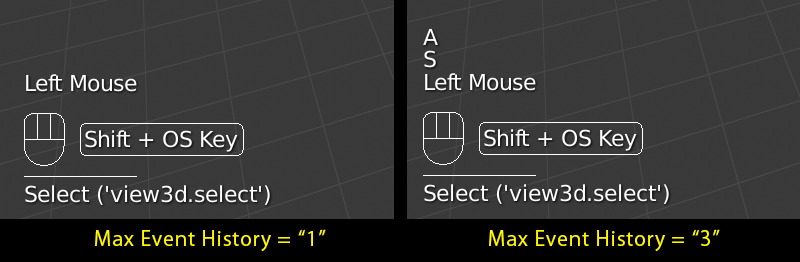
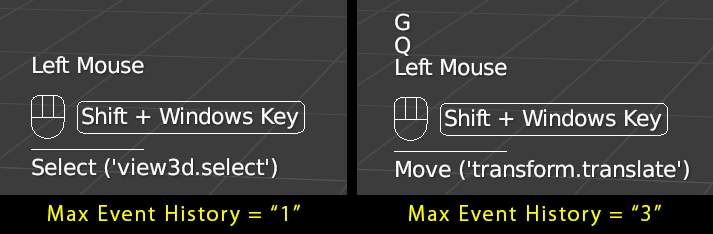
Update: Documents for v3.6

diff --git a/docs/tutorial.md b/docs/tutorial.md
@@ -38,15 +38,20 @@ You can also change shadow color.
 ### Backgroud
 
 If **Background** option is enabled, colored planes will be displayed behind texts and figures.  
-Two background options are available.  
-You can also change backgroud color.
+Background color is changeable.  
+**Background Mode** changes the display style for the background.
 
 |||
 |---|---|
 |**Text**|Display colored plane behind texts and figures.|
 |**Draw Area**|Display a color plane on the draw area rectangle.|
 
-![Option (Background)](images/tutorial/option_background.png)
+![Option (Background Mode)](images/tutorial/option_background_mode.png)
+
+The background will have rounded corners with **Corner Radius** value.  
+If this value is 0, the rounded corners are disabled.
+
+![Option (Corner Radius)](images/tutorial/option_background_corner_radius.png)
 
 
 ### Font Size
@@ -56,10 +61,24 @@ You can also change backgroud color.
 ![Option (Font Size)](images/tutorial/option_font_size.png)
 
 
+### Margin
+
+**Margin** option makes the spaces around the texts.  
+
+![Option (Margin)](images/tutorial/option_margin.png)
+
+
+### Line Thickness
+
+**Line Thickness** option specifies the thickness of lines.
+
+![Option (Line Thickness)](images/tutorial/option_line_thickness.png)
+
+
 ### Mouse Size
 
 **Mouse Size** option specifies the size of figure which displays hold mouse status.  
-This option is only availabe when **Mouse Events** option is **Hold Status** or **Event History + Hold Status** while **Show Mouse Events** is enabled.
+This option is only availabe when **Show Mouse Events** option's mode is **Hold Status** or **Event History + Hold Status**.
 
 ![Option (Mouse Size)](images/tutorial/option_mouse_size.png)
 
@@ -107,18 +126,17 @@ If you change **Max Event History** option to 1, show only last key event.
 ![Option (Max Event History)](images/tutorial/option_max_event_history.png)
 
 
-### Show Mouse Event
+### Repeat Count
 
-If **Show Mouse Event** option is enabled, events from mouse will be displayed.  
-You can also display mouse button hold status as figure.  
-See **Mouse Event** option if you want to change how to display the mouse status.
+Repeated key will be displayed as the single string. (eg: Tab x5)
 
-![Option (Mouse Event)](images/tutorial/option_mouse_event.png)
+![Option (Repeat Count)](images/tutorial/option_repeat_count.png)
 
 
-### Mouse Event
+### Show Mouse Events
 
-**Mouse Event** option specifies how to display the mouse status.
+If **Show Mouse Events** option is enabled, events from mouse will be displayed.  
+You can change the display mode from **Mode** option.  
 
 |||
 |---|---|
@@ -127,23 +145,22 @@ See **Mouse Event** option if you want to change how to display the mouse status
 |**Event History + Hold Status**|Both **Event History** and **Hold Status**.|
 
 
-### Show Last Operator
-
-If **Show Last Operator** option is enabled, the last executed operator will be displayed.  
-See **Last Operator** option if you want to change how to display the last operator.
-
-![Option (Last Operator)](images/tutorial/option_last_operator.png)
+![Option (Show Mouse Events)](images/tutorial/option_show_mouse_events.png)
 
 
-### Last Operator
+### Show Last Operators
 
-**Last Operator** option specifies how to display the last operator.
+If **Show Last Operators** option is enabled, the last executed operator will be displayed.  
+You can change the display mode from **Mode** option.  
 
 |||
 |---|---|
 |**Label**|Label (`bl_label`) of operator will be displayed.|
 |**ID Name**|ID Name (`bl_idname`) of operator will be displayed.|
 |**Label + ID Name**|Both **Label** and **ID Name**.|
+
+
+![Option (Show Last Operators)](images/tutorial/option_show_last_operators.png)
 
 
 ### Get Event Aggressively
@@ -161,21 +178,45 @@ In addition to the above options, some options are located on Preferences.
 You can update this add-on from Preferences.
 
 
-### Panel Location
+### Enable On Startup
 
-The location of the Panel can be changed.
+If this option is enabled, Screencast Keys will be enabled automatically when blender will startup up.
+
+
+### UI
+
+#### Sidebar
+
+If this option is enabled, the Screencast Key's menu will be added to the sidebar.
+The location of the Panel can be changed by using **Space** option and **Category** option.
 
 |||
 |---|---|
 |**Space**|Space which this panel is placed on.|
 |**Category**|The category name of this panel.|
 
+![Preferences (Sidebar)](images/tutorial/preferences_sidebar.png)
 
-### Debug Mode
 
-*NOTE: This option is for the development purpose. If this option is enabled, the performance issue may be raised.*
+#### Overlay
+
+If this option is enabled, the Screencast Key's menu will be added to the **Viewport Overlays**.
+
+![Preferences (Overlay)](images/tutorial/preferences_overlay.png)
+
+
+### Development
+
+*NOTE: These options are for the development purpose. If these options are enabled, the performance issue may be raised.*
+
+#### Output Debug Log
 
 Output logs for the analysis of bugs and so on.
+
+
+#### Display Draw Area
+
+Display 'Draw Area' where Screencast Keys UI will be rendered.
 
 
 ### Enable Display Event Text Aliases
@@ -183,7 +224,7 @@ Output logs for the analysis of bugs and so on.
 If this options is enabled, you can display own customized strings for events instead of default key name.  
 This can be useful when you want to display events from special input devices.
 
-![Preference (Text Aliases)](images/tutorial/preference_text_aliases.png)
+![Preference (Enable Display Event Text Aliases)](images/tutorial/preferences_enable_display_event_text_aliases.png)
 
 
 ## Shortcut Keys

diff --git a/docs/faq.md b/docs/faq.md
@@ -1,28 +1,39 @@
 # FAQ
 
+### Failed to install this add-on
 
-**Failed to get event while the modal operation is running. (e.g. G + X, S + Y, ...)**
+Try to restart Blender or reinstall this add-on.  
+Related error is reported in some issues ([Issue #61](https://github.com/nutti/Screencast-Keys/issues/61), [Issue #64](https://github.com/nutti/Screencast-Keys/issues/64), [Issues #65](https://github.com/nutti/Screencast-Keys/issues/65)).
 
-Try to enable the experimental option *Get Event Aggressively*.
+---
+
+### Failed to get event while the modal operation is running. (e.g. G + X, S + Y, ...)
+
+Try to enable the experimental option *Get Event Aggressively*.  
 This option enables you to get events even if the modal operation is running.
 
-This option hacks the internal structure of Blender, so it is now experimental option.
-If you want to use this add-on safely, you should not enable this option.
+This option hacks the internal structure of Blender, so it is now experimental option.  
+If you want to use this add-on safely, you should not enable this option.  
 But the bug reports are welcomed.
 
+---
 
-**Screencast Keys is disabled after opening a new .blend file or restarting Blender.**
+### Screencast Keys is disabled after opening a new .blend file or restarting Blender.
 
-Screencast Keys add-on uses the modal operator which continuously runs Blender's background.
-The modal operator will be cancelled when a new file is opened or Blender is restarted.
-For this reason, Screencast Keys will be disabled after opening a new .blend file or restarting Blender.
+Use Screencast Keys whose version is above 3.6.  
+This issue is solved by [**@CheeryLee**](https://github.com/CheeryLee)'s [Pull Request #62](https://github.com/nutti/Screencast-Keys/pull/62) and his patch is available since v3.6.
 
-Instead, Screencast Keys provides the shortcut key *Shift + Alt + C* to enable Screencast Keys add-on easily.
-See also [Tutorial](tutorial.md#shortcut-keys).
+---
 
+### Auto saving feature is disabled when Screencast Keys add-on is enabled.
 
-**Auto saving feature is disabled when Screencast Keys add-on is enabled.**
-
-Screencast Keys add-on uses the modal operator which continuously runs Blender's background.
-If the modal operator is running, Blender will disable the auto saving feature.
+Screencast Keys add-on uses the modal operator which continuously runs Blender's background.  
+If the modal operator is running, Blender will disable the auto saving feature.  
 For this reason, the auto saving feature is disabled when Screencast Keys add-on is enabled.
+
+---
+
+### ERROR: `TypeError: an integer is required (got type _PropertyDefered)`.
+
+Use Screencast Keys whose version is above 3.5.  
+This issue firstly reported in the [Issue #45](https://github.com/nutti/Screencast-Keys/issues/45), and you can find the discussion in it.

diff --git a/docs/installation.md b/docs/installation.md
@@ -16,6 +16,7 @@ There are two ways to install Screencast Keys add-on.
 
 |Version|Download URL|
 |---|---|
+|3.6|[Download](https://github.com/nutti/Screencast-Keys/releases/tag/v3.6)|
 |3.5|[Download](https://github.com/nutti/Screencast-Keys/releases/tag/v3.5)|
 |3.4|[Download](https://github.com/nutti/Screencast-Keys/releases/tag/v3.4)|
 |3.3|[Download](https://github.com/nutti/Screencast-Keys/releases/tag/v3.3)|
@@ -47,6 +48,7 @@ The name of add-on displayed in Blender is **Screencast Keys**.
 |Version|Download URL|
 |---|---|
 |*unstable*|[Download](https://github.com/nutti/Screencast-Keys/archive/master.zip)|
+|3.6|[Download](https://github.com/nutti/Screencast-Keys/releases/tag/v3.6)|
 |3.5|[Download](https://github.com/nutti/Screencast-Keys/releases/tag/v3.5)|
 |3.4|[Download](https://github.com/nutti/Screencast-Keys/releases/tag/v3.4)|
 |3.3|[Download](https://github.com/nutti/Screencast-Keys/releases/tag/v3.3)|
@@ -65,7 +67,7 @@ Add-on sources are located on the different places depending on the add-on versi
 |Version|Sources|
 |---|---|
 |unstable|src/screencast_keys|
-|3.1 - 3.5|screencast_keys|
+|3.1 - 3.6|screencast_keys|
 |3.0|screencastkeys|
 
 

diff --git a/CHANGELOG.md b/CHANGELOG.md
@@ -1,7 +1,34 @@
 # Change Log
 
 
-## [Unreleased](https://github.com/nutti/Screencast-Keys/compare/v3.5...master)
+## [Unreleased](https://github.com/nutti/Screencast-Keys/compare/v3.6...master)
+
+
+## [Version 3.6](https://github.com/nutti/Screencast-Keys/compare/v3.5...v3.6) - 2021.X.X
+
+### Updated Features
+
+* Blender 2.93 support about the option "Get Event Aggressively"
+* Added options
+  * Specify the displayed line's thickness
+  * Add spaces around the texts
+  * Show the backround with the rounded corners
+* Added preferences
+  * Enable Screencast Keys automatically when Blender is starting up
+* UI on Sidebar
+
+
+### Other Updates
+
+* Show platform specific keys by default
+* Fix bugs
+
+
+### Contributors
+
+* [**@kant**](https://github.com/kant)
+* [**@CheeryLee**](https://github.com/CheeryLee)
+* [**@Kureii**](https://github.com/Kureii)
 
 
 ## [Version 3.5](https://github.com/nutti/Screencast-Keys/compare/v3.4...v3.5) - 2021.3.5
